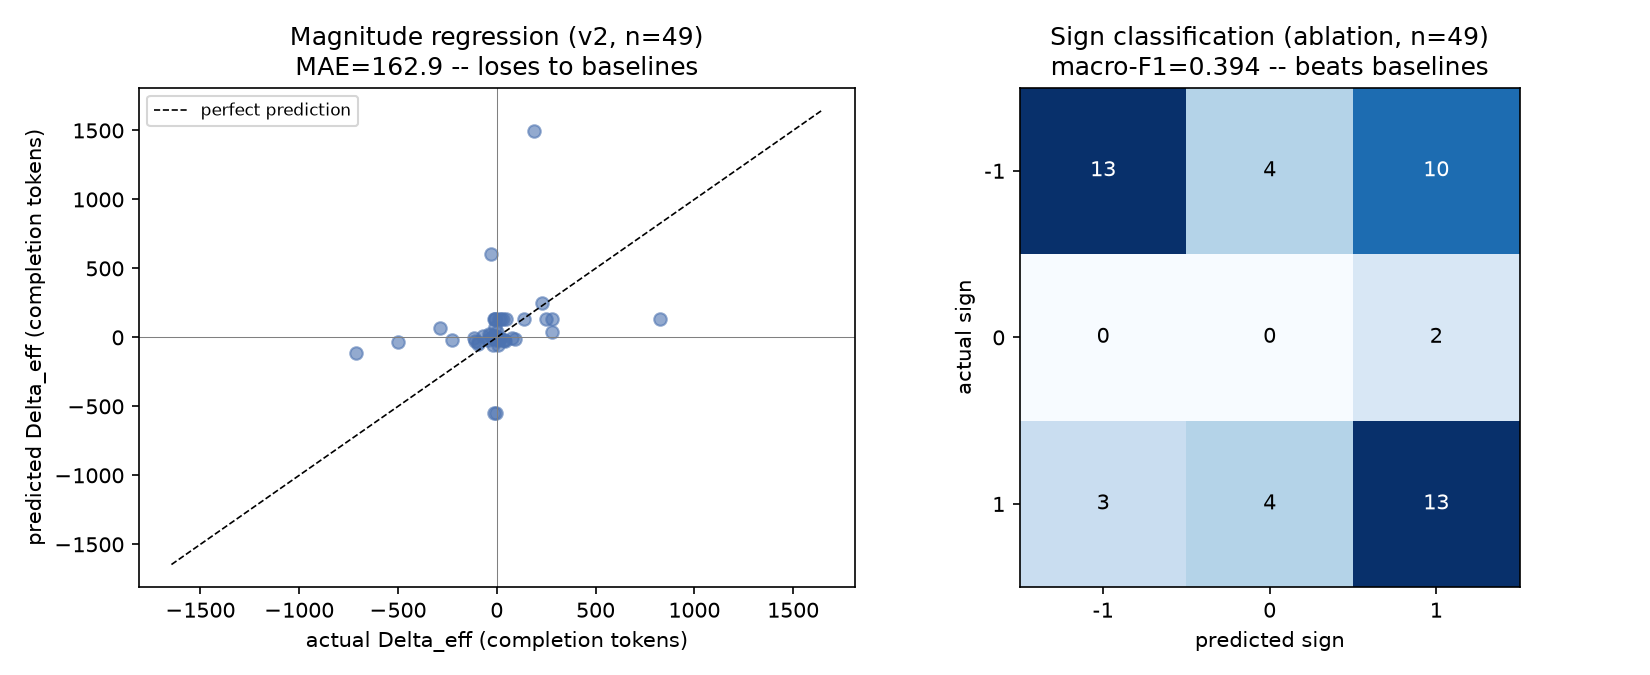
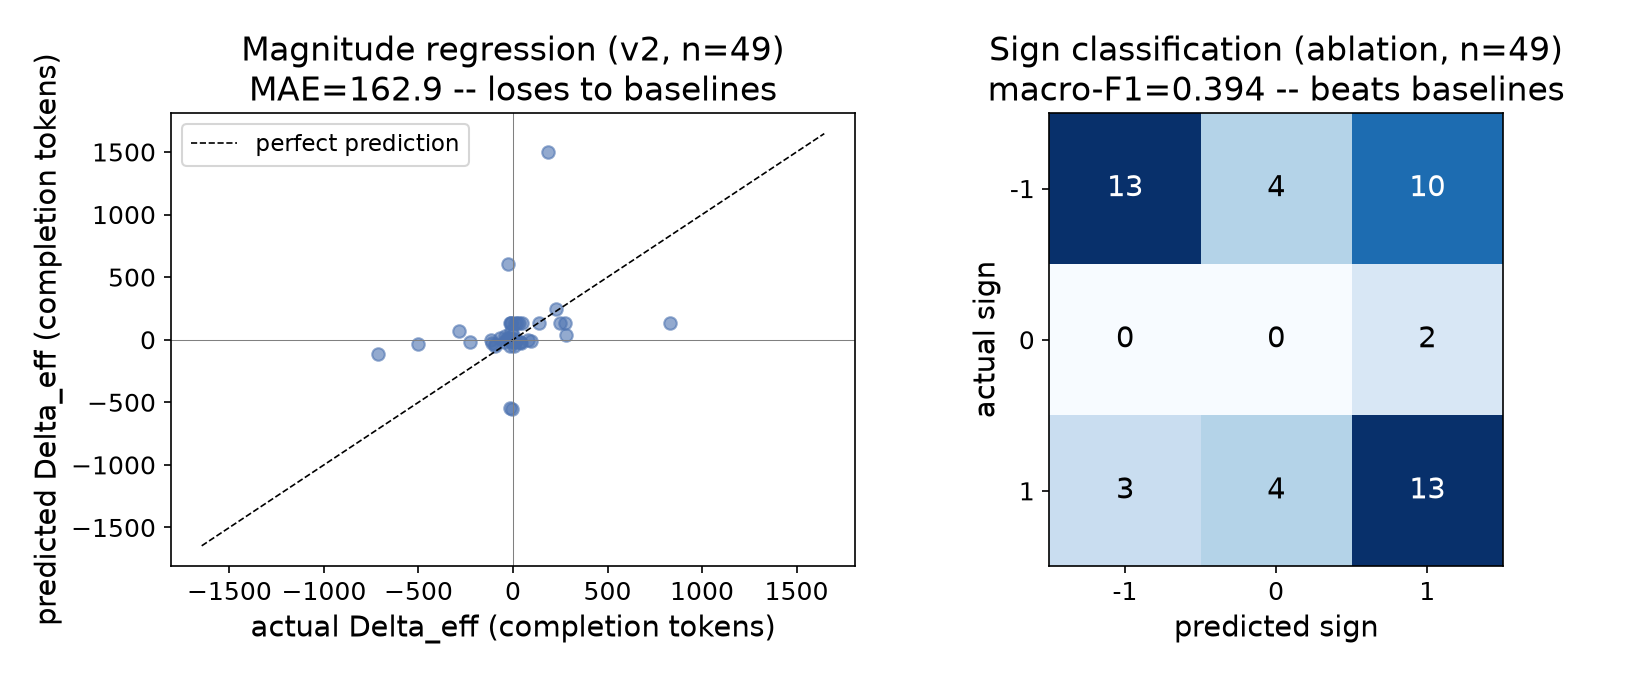
change figures for readability

diff --git a/scripts/build_final_visualizations.py b/scripts/build_final_visualizations.py
@@ -18,6 +18,18 @@ matplotlib.use("Agg")
 import matplotlib.pyplot as plt
 import numpy as np
 
+# Text-only size bump for paper legibility -- does not touch colors, line
+# widths, marker sizes, or figure dimensions.
+plt.rcParams.update({
+    "font.size": 14,
+    "axes.titlesize": 16,
+    "axes.labelsize": 14,
+    "xtick.labelsize": 12,
+    "ytick.labelsize": 12,
+    "legend.fontsize": 12,
+    "figure.titlesize": 18,
+})
+
 sys.path.insert(0, str(Path(__file__).resolve().parents[1]))
 
 from src.analysis.features import CLUSTERED_PROPERTY_FEATURES, build_dataset
@@ -67,7 +79,7 @@ def fig_transfer_by_category(df, path):
         ax.set_title(condition)
         ax.set_ylabel("Delta(E,T) flip count")
 
-    axes[0].legend(loc="upper right", fontsize=8)
+    axes[0].legend(loc="upper right", fontsize=11)
     fig.suptitle(f"Transfer gain by shift_category (n={len(df)} pairs, final enriched dataset)")
     fig.tight_layout()
     fig.savefig(path, dpi=150)
@@ -98,7 +110,7 @@ def fig_delta_eff_calibration(train_df, held_out_df, path):
     ax.set_xlabel("actual Delta_eff (completion tokens)")
     ax.set_ylabel("predicted Delta_eff (completion tokens)")
     ax.set_title(f"Magnitude regression (v2, n={len(y_held_out)})\nMAE={np.mean(np.abs(y_held_out-y_pred)):.1f} -- loses to baselines")
-    ax.legend(fontsize=8)
+    ax.legend(fontsize=11)
 
     ax = axes[1]
     from sklearn.metrics import confusion_matrix
@@ -155,9 +167,9 @@ def fig_property_correlation(df, path):
     from matplotlib.patches import Patch
     ax.legend(handles=[Patch(color="#4C72B0", label="primary/reliable"),
                         Patch(color="#C44E52", label="clustered (ablation only)")],
-               loc="lower right", fontsize=8)
+               loc="lower right", fontsize=11)
     fig.tight_layout()
-    fig.savefig(path, dpi=150)
+    fig.savefig(path, dpi=150, bbox_inches="tight")
     plt.close(fig)
 
 
@@ -217,10 +229,10 @@ def fig_oracle_vs_retrieved_gap(df, path):
     ax.set_xticklabels([f"oracle\n(n={len(oracle_eff)})", f"retrieved\n(n={len(retrieved_eff)})"])
     ax.set_ylabel("Delta_eff completion-token delta")
     ax.set_title("Efficiency: oracle vs. retrieved (matched-success)")
-    ax.legend(fontsize=8)
+    ax.legend(fontsize=11)
 
     fig.tight_layout()
-    fig.savefig(path, dpi=150)
+    fig.savefig(path, dpi=150, bbox_inches="tight")
     plt.close(fig)
 
 
